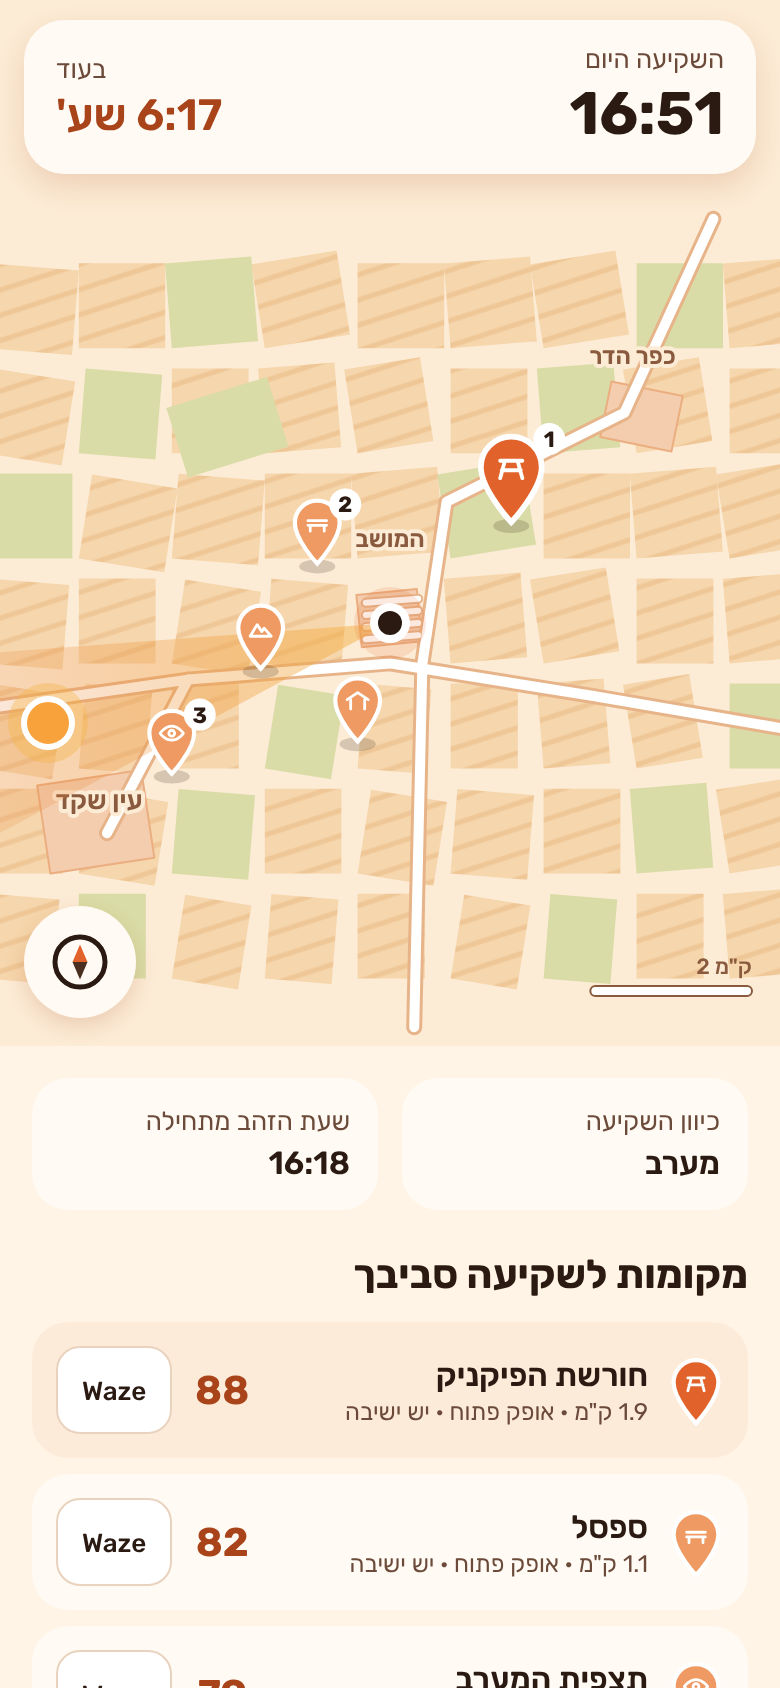
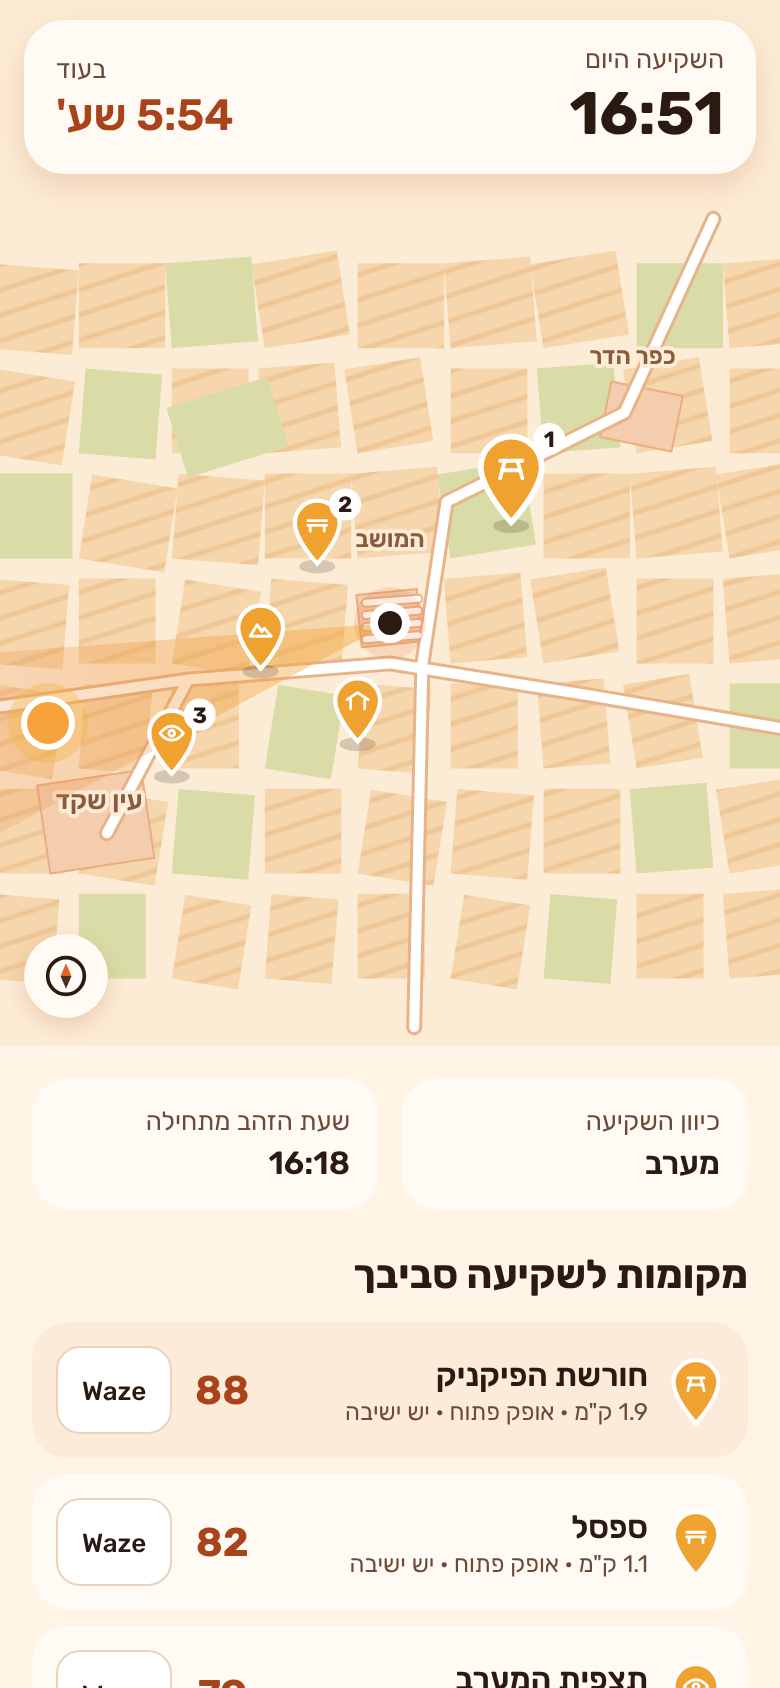
Spotlight: hedged Overpass requests, leaner map controls, /phone-test skill
- overpass() asks the next server if none has answered within 6 s (and at once
  when one fails), uses the first answer and cancels the rest; worst case
  ~45 s instead of 80 s of 'searching', with a reason per server.
- Remove the distance scale and the car/bike/walk picker (colours assume car);
  smaller compass button. Drops the async-storage dependency.
- /phone-test skill: run steps, known Windows/Expo Go failures and a short
  checklist for a test round on the phone; CLAUDE.md points to it.

Claude-Session: https://claude.ai/code/session_01SK2eAmbDoYGcEZA2FRtonW

diff --git a/apps/sunset-spots/src/lib/osm.ts b/apps/sunset-spots/src/lib/osm.ts
@@ -19,47 +19,90 @@ export const OVERPASS_URLS = [
   'https://maps.mail.ru/osm/tools/overpass/api/interpreter',
   'https://overpass.kumi.systems/api/interpreter',
 ];
-const OVERPASS_TIMEOUT_MS = 20000;
 // Overpass asks apps to identify themselves; some servers turn away anonymous clients.
 const USER_AGENT = 'Spotlight/1.0 (sunset spots app)';
 
+type OverpassOptions = {
+  /** Give up on a server after this long. */
+  timeoutMs?: number;
+  /** If no server has answered after this long, also ask the next one. */
+  hedgeMs?: number;
+};
+
+const host = (url: string) => url.replace(/^https?:\/\/([^/]+).*$/, '$1'); // React Native's URL has no `hostname`
+
 /**
- * Runs an Overpass query, trying each server in turn (starting at `first`) until one answers.
- * If all of them fail, the error says why for each server ("overpass-api.de: HTTP 429 · …"),
- * so the app can show it.
+ * Runs an Overpass query against the public servers, starting at `first`, and returns the first
+ * answer. A busy server can sit on a query for a long time, so rather than wait for it to time out
+ * before trying the next, the next one is also asked if nothing has come back after `hedgeMs`, and
+ * straight away when a server fails. The rest are cancelled once one answers.
+ * If all of them fail, the error says why for each ("overpass-api.de: HTTP 429 · …") so the app can show it.
  */
-export async function overpass<T>(query: string, signal?: AbortSignal, first = 0): Promise<T> {
-  const failures: string[] = [];
-  for (let i = 0; i < OVERPASS_URLS.length; i++) {
-    if (signal?.aborted) break;
-    const url = OVERPASS_URLS[(first + i) % OVERPASS_URLS.length];
-    const attempt = new AbortController();
-    const onAbort = () => attempt.abort();
-    let timedOut = false;
-    signal?.addEventListener('abort', onAbort);
-    const timer = setTimeout(() => {
-      timedOut = true;
-      attempt.abort();
-    }, OVERPASS_TIMEOUT_MS);
-    try {
-      const response = await fetch(url, {
+export function overpass<T>(
+  query: string,
+  signal?: AbortSignal,
+  first = 0,
+  { timeoutMs = 25000, hedgeMs = 6000 }: OverpassOptions = {},
+): Promise<T> {
+  return new Promise<T>((resolve, reject) => {
+    const failures: string[] = [];
+    const inFlight: AbortController[] = [];
+    let launched = 0;
+    let failed = 0;
+    let settled = false;
+    let hedgeTimer: ReturnType<typeof setTimeout> | undefined;
+
+    const settle = (done: () => void) => {
+      if (settled) return;
+      settled = true;
+      clearTimeout(hedgeTimer);
+      signal?.removeEventListener('abort', onAbort);
+      inFlight.forEach((c) => c.abort());
+      done();
+    };
+    const onAbort = () => settle(() => reject(new Error('aborted')));
+
+    const scheduleHedge = () => {
+      clearTimeout(hedgeTimer);
+      if (launched < OVERPASS_URLS.length) hedgeTimer = setTimeout(launchNext, hedgeMs);
+    };
+
+    function launchNext() {
+      if (settled || launched >= OVERPASS_URLS.length) return;
+      const url = OVERPASS_URLS[(first + launched++) % OVERPASS_URLS.length];
+      const controller = new AbortController();
+      inFlight.push(controller);
+      let timedOut = false;
+      const timer = setTimeout(() => {
+        timedOut = true;
+        controller.abort();
+      }, timeoutMs);
+      scheduleHedge();
+
+      fetch(url, {
         method: 'POST',
         headers: { 'Content-Type': 'application/x-www-form-urlencoded', 'User-Agent': USER_AGENT },
         body: `data=${encodeURIComponent(query)}`,
-        signal: attempt.signal,
-      });
-      if (!response.ok) throw new Error(`HTTP ${response.status}`);
-      return (await response.json()) as T;
-    } catch (error) {
-      const reason = timedOut ? 'timeout' : error instanceof Error ? error.message : String(error);
-      // A regex, not `new URL()`: React Native's URL doesn't implement `hostname`.
-      failures.push(`${url.replace(/^https?:\/\/([^/]+).*$/, '$1')}: ${reason}`);
-    } finally {
-      clearTimeout(timer);
-      signal?.removeEventListener('abort', onAbort);
+        signal: controller.signal,
+      })
+        .then(async (response) => {
+          if (!response.ok) throw new Error(`HTTP ${response.status}`);
+          return (await response.json()) as T;
+        })
+        .then((json) => settle(() => resolve(json)))
+        .catch((error: unknown) => {
+          if (settled) return;
+          failures.push(`${host(url)}: ${timedOut ? 'timeout' : error instanceof Error ? error.message : String(error)}`);
+          if (++failed === OVERPASS_URLS.length) settle(() => reject(new Error(failures.join(' · '))));
+          else launchNext();
+        })
+        .finally(() => clearTimeout(timer));
     }
-  }
-  throw new Error(signal?.aborted ? 'aborted' : failures.join(' · ') || 'no servers');
+
+    if (signal?.aborted) return onAbort();
+    signal?.addEventListener('abort', onAbort);
+    launchNext();
+  });
 }
 
 const FILTERS: [string, string][] = [

diff --git a/apps/sunset-spots/src/app/index.tsx b/apps/sunset-spots/src/app/index.tsx
@@ -4,14 +4,12 @@ import { SafeAreaView, useSafeAreaInsets } from 'react-native-safe-area-context'
 import { CompassButton, CompassSheet } from '../components/CompassSheet';
 import { SpotList } from '../components/SpotList';
 import { SpotMap } from '../components/SpotMap';
-import { TravelModePicker } from '../components/TravelModePicker';
 import { useHorizons } from '../hooks/useHorizons';
 import { useLocation } from '../hooks/useLocation';
 import { useMapLayers } from '../hooks/useMapLayers';
 import { useNow } from '../hooks/useNow';
 import { usePlaceName } from '../hooks/usePlaceName';
 import { useSpots } from '../hooks/useSpots';
-import { useTravelMode } from '../hooks/useTravelMode';
 import { rankSpots } from '../lib/score';
 import { bearingToHebrew, formatClock, formatCountdown, getSunsetInfo } from '../lib/sun';
 import { withReach } from '../lib/travel';
@@ -39,7 +37,6 @@ export default function SunsetScreen() {
   const info = coords ? getSunsetInfo(coords.latitude, coords.longitude, now) : null;
   const horizons = useHorizons(spots.state.status === 'ready' ? spots.state.spots : null, coords, info?.bearing ?? null);
   const [compassOpen, setCompassOpen] = useState(false);
-  const [travelMode, setTravelMode] = useTravelMode();
 
   if (state.status === 'loading') {
     return (
@@ -62,7 +59,7 @@ export default function SunsetScreen() {
     spots.state.status === 'ready'
       ? withReach(
           rankSpots(spots.state.spots, { lat: latitude, lon: longitude }, info.bearing, VIEW_WEIGHT, horizons.horizons).slice(0, 6),
-          travelMode,
+          'car',
           now,
           info.goldenHour,
           info.sunset,
@@ -98,9 +95,6 @@ export default function SunsetScreen() {
 
           <View style={styles.fab}>
             <CompassButton onPress={() => setCompassOpen(true)} />
-          </View>
-          <View style={styles.modes}>
-            <TravelModePicker value={travelMode} onChange={setTravelMode} />
           </View>
         </View>
 
@@ -210,7 +204,6 @@ const styles = StyleSheet.create({
   cardColumn: { alignItems: 'flex-end', gap: 2, flexShrink: 1 },
   alignStart: { alignItems: 'flex-start' },
   fab: { position: 'absolute', left: 12, bottom: 14 },
-  modes: { position: 'absolute', right: 12, bottom: 14 },
   label: { fontFamily: fonts.regular, fontSize: 13, color: colors.muted, textAlign: 'right' },
   time: { fontFamily: fonts.bold, fontSize: 30, color: colors.ink },
   countdown: { fontFamily: fonts.semibold, fontSize: 22, color: colors.orangeText },

diff --git a/apps/sunset-spots/tests/spots.test.ts b/apps/sunset-spots/tests/spots.test.ts
@@ -147,3 +147,48 @@ test('overpass falls back to the next server when one is busy', async () => {
     globalThis.fetch = realFetch;
   }
 });
+
+test('overpass asks the next server when one hangs, and cancels the slow one', async () => {
+  const { overpass, OVERPASS_URLS } = await import('../src/lib/osm.ts');
+  const realFetch = globalThis.fetch;
+  const calls: string[] = [];
+  let slowAborted = false;
+  globalThis.fetch = ((url: string, init?: RequestInit) => {
+    calls.push(url);
+    if (calls.length === 1) {
+      // A busy server: never answers, only stops when cancelled.
+      return new Promise((_, reject) => {
+        init?.signal?.addEventListener('abort', () => {
+          slowAborted = true;
+          reject(new Error('aborted'));
+        });
+      });
+    }
+    return Promise.resolve(new Response(JSON.stringify({ elements: ['fast'] }), { status: 200 }));
+  }) as typeof fetch;
+  try {
+    const started = Date.now();
+    const json = await overpass<{ elements: string[] }>('q', undefined, 0, { hedgeMs: 30, timeoutMs: 5000 });
+    assert.deepEqual(json.elements, ['fast']);
+    assert.ok(Date.now() - started < 1000, 'did not wait for the slow server to time out');
+    assert.deepEqual(calls, [OVERPASS_URLS[0], OVERPASS_URLS[1]]);
+    assert.equal(slowAborted, true);
+  } finally {
+    globalThis.fetch = realFetch;
+  }
+});
+
+test('overpass reports a timeout per server when none answer', async () => {
+  const { overpass } = await import('../src/lib/osm.ts');
+  const realFetch = globalThis.fetch;
+  globalThis.fetch = ((_url: string, init?: RequestInit) =>
+    new Promise((_, reject) => init?.signal?.addEventListener('abort', () => reject(new Error('aborted'))))) as typeof fetch;
+  try {
+    await assert.rejects(
+      overpass('q', undefined, 0, { hedgeMs: 10, timeoutMs: 60 }),
+      /^Error: overpass-api\.de: timeout · overpass\.private\.coffee: timeout · maps\.mail\.ru: timeout · overpass\.kumi\.systems: timeout$/,
+    );
+  } finally {
+    globalThis.fetch = realFetch;
+  }
+});

diff --git a/apps/sunset-spots/src/components/SpotMap.tsx b/apps/sunset-spots/src/components/SpotMap.tsx
@@ -88,7 +88,7 @@ const BaseLayers = memo(function BaseLayers({
       .filter((r): r is { id: string; major: boolean; d: string } => r.d !== null)
       // Minor streets first so main roads sit on top at junctions.
       .sort((a, b) => Number(a.major) - Number(b.major));
-    return { areas, roads, labels: layoutLabels(layers.places, proj), scale: scaleBar(proj) };
+    return { areas, roads, labels: layoutLabels(layers.places, proj) };
   }, [lat, lon, width, height, top, range, layers]);
 
   const areaFill: Record<AreaKind, string> = {
@@ -134,13 +134,6 @@ const BaseLayers = memo(function BaseLayers({
           </SvgText>
         </G>
       ))}
-      <G>
-        {/* Top right, under the sunset card: the compass and travel-mode buttons take the bottom. */}
-        <Rect x={width - 14 - shapes.scale.px} y={top + 22} width={shapes.scale.px} height={5} rx={2.5} fill={colors.white} stroke={MAP.label} strokeWidth={1} />
-        <SvgText x={width - 14} y={top + 16} fontSize={11} fontFamily={fonts.medium} fill={MAP.label} textAnchor="end">
-          {shapes.scale.label}
-        </SvgText>
-      </G>
     </G>
   );
 });
@@ -202,15 +195,6 @@ function Overlay({ proj, sunsetBearing, spots }: { proj: Projection; sunsetBeari
       <Circle cx={center.x} cy={center.y} r={6} fill={colors.ink} />
     </G>
   );
-}
-
-const SCALE_STEPS_M = [100, 200, 500, 1000, 2000, 5000];
-
-/** The longest round distance that fits in about a quarter of the map's width. */
-function scaleBar(proj: Projection): { px: number; label: string } {
-  const max = proj.width * 0.28;
-  const meters = [...SCALE_STEPS_M].reverse().find((m) => m * proj.pxPerMeter <= max) ?? SCALE_STEPS_M[0];
-  return { px: meters * proj.pxPerMeter, label: meters < 1000 ? `${meters} מ'` : `${meters / 1000} ק"מ` };
 }
 
 const styles = StyleSheet.create({

diff --git a/apps/sunset-spots/src/components/CompassSheet.tsx b/apps/sunset-spots/src/components/CompassSheet.tsx
@@ -62,7 +62,7 @@ function CompassBody({ bearing, onClose }: { bearing: number; onClose: () => voi
 export function CompassButton({ onPress }: { onPress: () => void }) {
   return (
     <Pressable onPress={onPress} style={styles.fab} accessibilityRole="button" accessibilityLabel="פתיחת המצפן" hitSlop={8}>
-      <Svg width={30} height={30} viewBox="0 0 24 24">
+      <Svg width={22} height={22} viewBox="0 0 24 24">
         <Circle cx={12} cy={12} r={10} fill="none" stroke={colors.ink} strokeWidth={2} />
         <Path d="M12 5l3 7h-6z" fill={colors.orange} />
         <Path d="M12 19l-3-7h6z" fill={colors.inkSoft} />
@@ -81,12 +81,12 @@ const styles = StyleSheet.create({
   close: { minHeight: 48, paddingHorizontal: 28, justifyContent: 'center', backgroundColor: colors.ink, borderRadius: 16, marginTop: 8 },
   closeText: { fontFamily: fonts.semibold, fontSize: 16, color: colors.ground },
   fab: {
-    width: 56,
-    height: 56,
+    width: 42,
+    height: 42,
     alignItems: 'center',
     justifyContent: 'center',
     backgroundColor: colors.surface,
-    borderRadius: 28,
+    borderRadius: 21,
     shadowColor: colors.orangeText,
     shadowOpacity: 0.18,
     shadowRadius: 10,

diff --git a/apps/sunset-spots/src/lib/travel.ts b/apps/sunset-spots/src/lib/travel.ts
@@ -11,8 +11,6 @@ import type { ScoredSpot } from './score.ts';
 
 export type TravelMode = 'car' | 'bike' | 'walk';
 
-export const TRAVEL_MODES: TravelMode[] = ['car', 'bike', 'walk'];
-
 const PROFILE: Record<TravelMode, { kmh: number; detour: number; overheadMin: number }> = {
   // Rural roads and towns, not highways; a few minutes to get going and to park.
   car: { kmh: 45, detour: 1.35, overheadMin: 3 },

diff --git a/.claude/skills/phone-test/SKILL.md b/.claude/skills/phone-test/SKILL.md
@@ -1,0 +1,49 @@
+---
+name: phone-test
+description: Run a phone test round of the Spotlight sunset app (apps/sunset-spots) — send the run commands, a short checklist, then turn the user's screenshots and feedback into fixes and a log entry. Use when the user types /phone-test, wants to run or check the app on their phone, says "אני ליד המחשב", or sends a screenshot from the app.
+---
+
+# /phone-test — סבב בדיקה של Spotlight בטלפון
+
+המטרה: להגיע מ"אני ליד המחשב" לצילומי מסך ומשוב מהטלפון, עם כמה שפחות הודעות הלוך ושוב.
+
+## 1. הכנה (אצלי, לפני ששולחים פקודות)
+- לבדוק שאין שינויים שלא נדחפו (`git status`). אם יש, להריץ בדיקות ולדחוף לפני שהמשתמש/ת מריץ/ה `git pull`.
+- אם נוספה חבילה מאז הסבב הקודם, להדגיש שהפעם `npm.cmd install` חובה.
+
+## 2. לשלוח את פקודות ההרצה
+הפקודות ל־PowerShell רגיל במחשב הנייד, שורה אחת בכל פעם:
+```
+cd $HOME\orkalifa\apps\sunset-spots
+git checkout -- package.json package-lock.json
+git pull
+npm.cmd install
+npx.cmd expo start --tunnel ngrok -c
+```
+- קודם `Ctrl+C`, אם שרת ישן עדיין רץ.
+- המקלדת צריכה להיות באנגלית (`Alt+Shift`).
+- בטלפון: סוגרים את Expo Go לגמרי וסורקים את קוד ה־QR החדש. לא נכנסים דרך "Recently opened".
+
+## 3. תקלות שכבר ראינו
+| מה מופיע | מה עושים |
+|---|---|
+| `running scripts is disabled` | `Set-ExecutionPolicy -Scope CurrentUser RemoteSigned`, או `npm.cmd` / `npx.cmd` |
+| `unknown option: -n` או `>>` | `Ctrl+C`, ואז `npx.cmd` במקום `npx` |
+| `Port 8081 is being used` | שרת ישן רץ בחלון אחר. לסגור את כל חלונות PowerShell |
+| `Install @expo/ngrok and try again` | `npm.cmd install` (ngrok מותקן כחלק מהפרויקט) |
+| `Couldn't create a signed tunnel URL` | חסר `ngrok` אחרי `--tunnel` |
+| `incompatible with this version of Expo Go` | להתאים את הפרויקט ל־SDK של Expo Go (לא להפך), ולעדכן את `CLAUDE.md` |
+| `Something went wrong` בטלפון | לבקש צילום של "View error log". בדרך כלל זה שרת ישן או רשת, ו־tunnel פותר |
+
+## 4. צ'קליסט קצר (לשלוח אחרי שהאפליקציה עולה)
+לשאול רק על מה שהשתנה מאז הסבב הקודם, ועוד:
+1. המפה: רואים שדות, כבישים ושמות יישובים?
+2. מקומות: יש סיכות ורשימה? אם מופיעה שגיאה, לצלם את השורה הקטנה באנגלית שמתחתיה.
+3. מה שהשתנה בסבב הזה, למשל "המצפן חלק?".
+4. 2–3 צילומי מסך, ומשפט אחד: מה אהבת ומה הפריע.
+
+## 5. אחרי המשוב
+- לתקן מה שברור. מה שתלוי בטעם, לשאול בשאלה אחת ממוקדת.
+- לא לרשום בריפו מיקום אישי: שם יישוב או קואורדינטות שמופיעים בצילומי המסך.
+- להריץ לפני push: `npm test`, `npm run typecheck`, `EXPO_OFFLINE=1 CI=1 npx expo lint`, ובנייה עם `EXPO_OFFLINE=1 CI=1 npx expo export --platform android`.
+- לרשום שורה ב"יומן בנייה" של `ideas/2026-10-18-sunset-spots-app.md`: מה נבדק, מה עבד ומה פתוח.

diff --git a/ideas/2026-10-18-sunset-spots-app.md b/ideas/2026-10-18-sunset-spots-app.md
@@ -234,4 +234,12 @@
   - **כפתור המצפן:** להקטין.
   - **הבורר 🚗/🚲/🚶 מיותר:** לחשוב על דרך אחרת לבחור אמצעי הגעה, או לוותר עליו. הצבע לפי "מספיקים להגיע" נשאר רעיון טוב.
   - **עדיין חוסם:** המקומות והמפה לא נטענים בטלפון. במסך כתוב "מחפש מקומות…" והשרתים לא עונים. הסיבה המדויקת עוד לא התקבלה, וזה הדבר הראשון לפתור בפעם הבאה.
+- **תיקונים לפי המשוב (2026-10-31):**
+  - **מה הוסר:** סרגל המרחק (יחזור בהמשך, בנסיעה או בפרטי מקום) והבורר 🚗/🚲/🚶. הצבע מחושב עכשיו לפי נסיעה ברכב.
+  - **כפתור המצפן:** הוקטן.
+  - **טעינה מ־Overpass:**
+    - **לפני:** שרת אחד בכל פעם, עד 20 שניות לכל אחד, כלומר עד 80 שניות של "מחפש מקומות…".
+    - **עכשיו:** אם שרת לא עונה תוך 6 שניות, נשאל במקביל גם השרת הבא, ומשתמשים בתשובה הראשונה שמגיעה. במקרה הגרוע ההמתנה מסתיימת אחרי כ־45 שניות, ואז מוצגת סיבה לכל שרת.
+  - **נוסף Skill בשם `/phone-test`:** פקודות הרצה, טבלת תקלות מוכרות וצ'קליסט לסבב בדיקה בטלפון.
+  - **עדיין פתוח:** שפה ויזואלית משלה. מחכה לרפרנסים מהמשתמש/ת.
 

diff --git a/CLAUDE.md b/CLAUDE.md
@@ -6,7 +6,7 @@
 - **רעיון חדש:** בכל פעם שמובא רעיון חדש, להפעיל את ה־Skill `/idea` (`.claude/skills/idea/SKILL.md`).
 - **מאגר:** כל ה־Idea Briefs נמצאים ב־`ideas/`, והאינדקס ב־`ideas/README.md`. לעדכן סטטוס כשעובדים על רעיון.
 - **פורמט ברירת מחדל:** Markdown, אלא אם התוצר דורש פורמט אחר.
-- **הרצת אפליקציית השקיעות (Spotlight) בטלפון:** בכל פעם שהמשתמש/ת רוצה להריץ או לבדוק את האפליקציה, או חוזר/ת לעבוד עליה, לשלוח מיד את פקודות ההרצה. הפקודות מיועדות ל־PowerShell רגיל, לא כמנהל, במחשב הנייד עם Windows:
+- **הרצת אפליקציית השקיעות (Spotlight) בטלפון:** בכל פעם שהמשתמש/ת רוצה להריץ או לבדוק את האפליקציה, או חוזר/ת לעבוד עליה, להפעיל את ה־Skill `/phone-test` (`.claude/skills/phone-test/SKILL.md`) ולשלוח מיד את פקודות ההרצה. הפקודות מיועדות ל־PowerShell רגיל, לא כמנהל, במחשב הנייד עם Windows:
   - קודם `Ctrl+C`, אם שרת ישן עדיין רץ.
   - אחר כך שורה אחת בכל פעם, עם מקלדת באנגלית:
     ```
